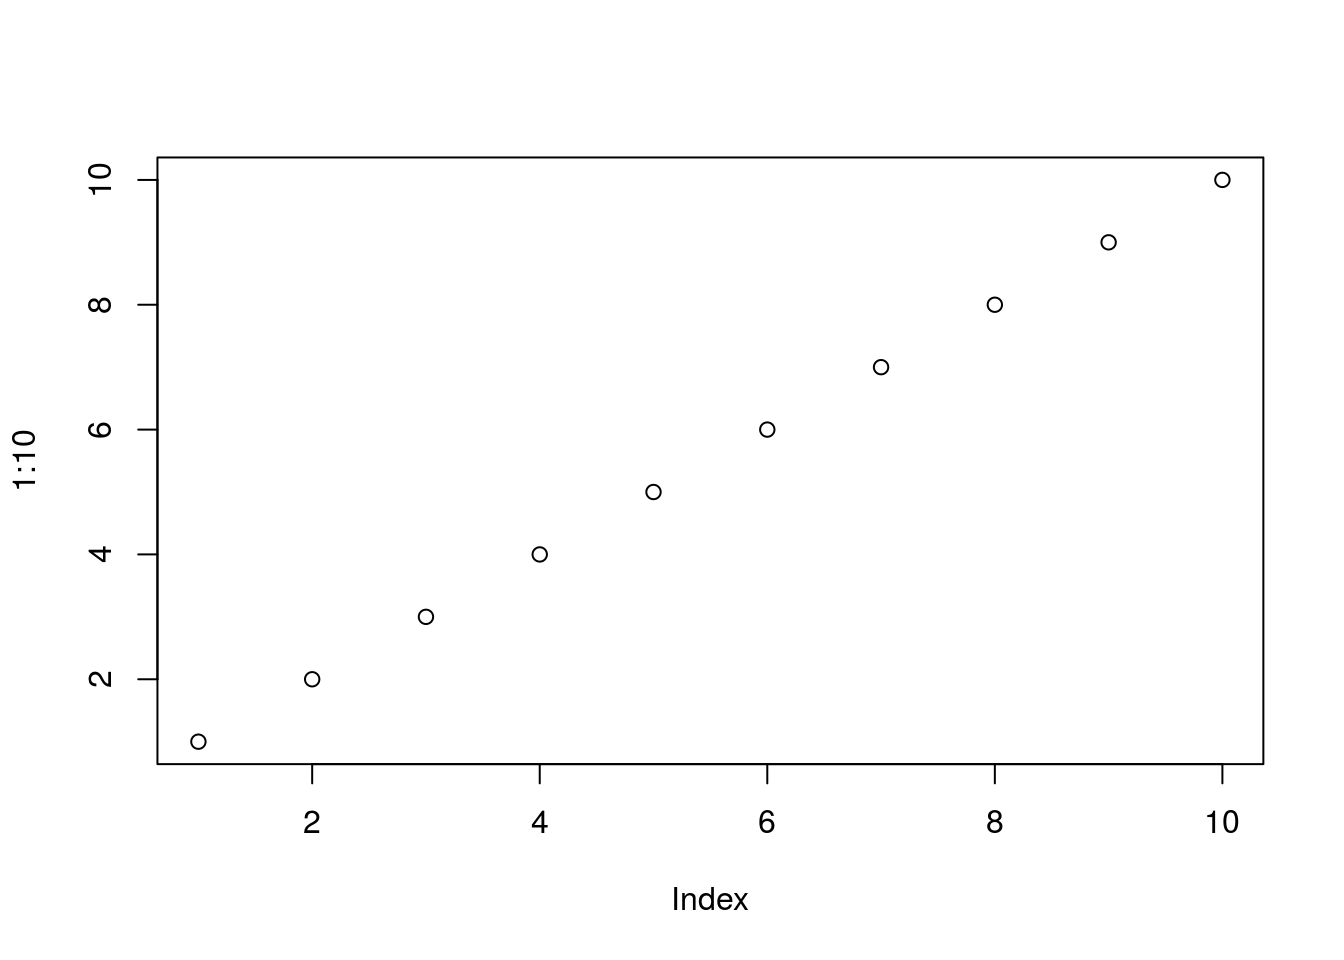
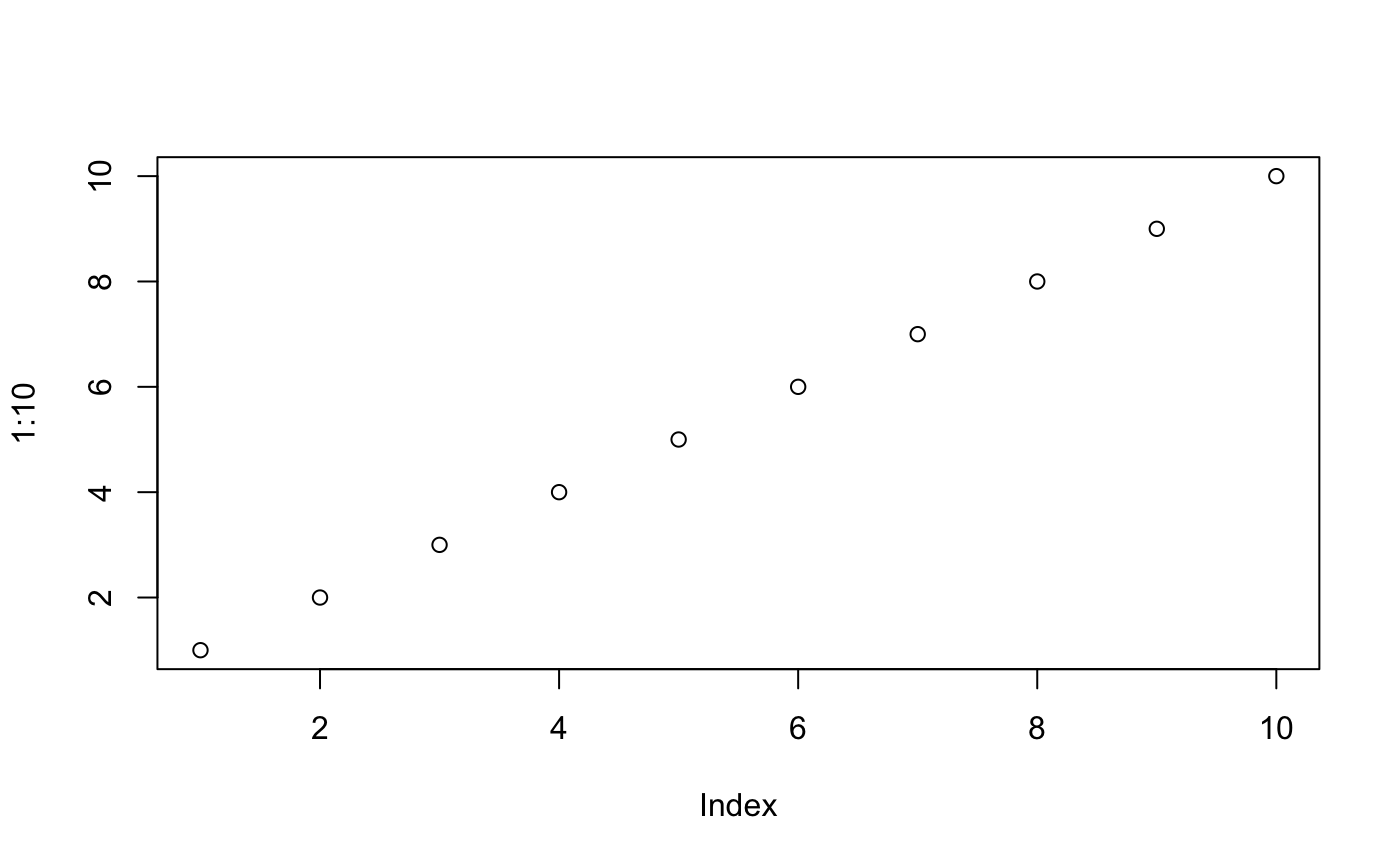
Update website

diff --git a/docs/index.html b/docs/index.html
@@ -19,7 +19,7 @@
 <![endif]-->
 </head>
 <body>
-    <div class="container template-home">
+    <div class="container template-article">
       <header><div class="navbar navbar-default navbar-fixed-top" role="navigation">
   <div class="container">
     <div class="navbar-header">
@@ -58,7 +58,14 @@
   </ul>
 </li>
       </ul>
-<ul class="nav navbar-nav navbar-right"></ul>
+<ul class="nav navbar-nav navbar-right">
+<li>
+  <a href="https://github.com/davidcarayon/ecotools">
+    <span class="fa fa-github fa-lg"></span>
+     
+  </a>
+</li>
+      </ul>
 </div>
 <!--/.nav-collapse -->
   </div>
@@ -68,20 +75,29 @@
 
       
       </header><div class="row">
-  <div class="contents col-md-9">
-    <div id="package-utilitaire-ecotools" class="section level1">
+  <div class="col-md-9 contents">
+    
+
+    
+    
+<div id="package-utilitaire-ecotools" class="section level1">
 <div class="page-header"><h1 class="hasAnchor">
-<a href="#package-utilitaire-ecotools" class="anchor"></a>Package utilitaire ecotools</h1></div>
-<p>Développé par l’équipe ECOVEA, EABX.</p>
-<p>Site associé : <a href="https://davidcarayon.github.io/ecotools/index.html" class="uri">https://davidcarayon.github.io/ecotools/index.html</a></p>
+<a href="#package-utilitaire-ecotools" class="anchor"></a>Package utilitaire ecotools <img src="reference/figures/serveimage.png" align="right" height="120" width="139">
+</h1></div>
+
+<p>Package utilitaire développé et utilisé en interne par l’équipe Ecovea (IRSTEA/EABX)</p>
+<p><pr des principales fonctions></pr></p>
+<p>Pour en savoir plus : <a href="https://davidcarayon.github.io/ecotools/index.html" class="uri">https://davidcarayon.github.io/ecotools/index.html</a></p>
 </div>
   </div>
 
-  <div class="col-md-3" id="sidebar">
+  <div class="col-md-3 hidden-xs hidden-sm" id="sidebar">
     <div class="links">
 <h2>Links</h2>
 <ul class="list-unstyled">
-<li>Report a bug at <br><a href="NA">NA</a>
+<li>Browse source code at <br><a href="https://github.com/davidcarayon/ecotools">https://github.com/davidcarayon/ecotools</a>
+</li>
+<li>Report a bug at <br><a href="https://github.com/davidcarayon/ecotools/issues">https://github.com/davidcarayon/ecotools/issues</a>
 </li>
 </ul>
 </div>
@@ -101,7 +117,18 @@
 </ul>
 </div>
 
-  </div>
+      <div class="dev-status">
+<h2>Dev status</h2>
+<ul class="list-unstyled">
+<li><a href="http://www.repostatus.org/#active"><img src="http://www.repostatus.org/badges/latest/active.svg" alt="Project Status: Active – The project has reached a stable, usable state and is being actively developed."></a></li>
+<li><a href="https://cran.r-project.org/"><img src="https://img.shields.io/badge/R%3E%3D-3.4.2-6666ff.svg" alt="minimal R version"></a></li>
+<li><a href="https://www.gnu.org/licenses/gpl-3.0.en.html"><img src="https://img.shields.io/badge/licence-GPL--3-blue.svg" alt="Licence"></a></li>
+<li><a href="https://cran.r-project.org/package=ecotools"><img src="http://www.r-pkg.org/badges/version/ecotools" alt="CRAN_Status_Badge"></a></li>
+<li><a href="commits/master"><img src="https://img.shields.io/badge/Package%20version-0.1-orange.svg?style=flat-square" alt="packageversion"></a></li>
+</ul>
+</div>
+</div>
+
 </div>
 
 

diff --git a/docs/articles/vign_ecotools.html b/docs/articles/vign_ecotools.html
@@ -18,7 +18,7 @@
 <![endif]-->
 </head>
 <body>
-    <div class="container template-vignette">
+    <div class="container template-article">
       <header><div class="navbar navbar-default navbar-fixed-top" role="navigation">
   <div class="container">
     <div class="navbar-header">
@@ -57,7 +57,14 @@
   </ul>
 </li>
       </ul>
-<ul class="nav navbar-nav navbar-right"></ul>
+<ul class="nav navbar-nav navbar-right">
+<li>
+  <a href="https://github.com/davidcarayon/ecotools">
+    <span class="fa fa-github fa-lg"></span>
+     
+  </a>
+</li>
+      </ul>
 </div>
 <!--/.nav-collapse -->
   </div>
@@ -67,20 +74,20 @@
 
       
       </header><div class="row">
-  <div class="col-md-9">
+  <div class="col-md-9 contents">
     <div class="page-header toc-ignore">
       <h1>ecotools</h1>
                         <h4 class="author">David Carayon, Sebastien Boutry, Thibault Leboucher, Marie Wach</h4>
             
-            <h4 class="date">2018-03-28</h4>
+            <h4 class="date">2018-04-07</h4>
       
-      
+      <small>Source: <a href="https://github.com/davidcarayon/ecotools/blob/master/vignettes/vign_ecotools.Rmd"><code>vignettes/vign_ecotools.Rmd</code></a></small>
+      <div class="hidden name"><code>vign_ecotools.Rmd</code></div>
 
     </div>
 
     
     
-<div class="contents">
 <p>Vignettes are long form documentation commonly included in packages. Because they are part of the distribution of the package, they need to be as compact as possible. The <code>html_vignette</code> output type provides a custom style sheet (and tweaks some options) to ensure that the resulting html is as small as possible. The <code>html_vignette</code> format:</p>
 <ul>
 <li>Never uses retina figures</li>
@@ -106,7 +113,7 @@
 <p>The figure sizes have been customised so that you can easily put two images side-by-side.</p>
 <div class="sourceCode"><pre class="sourceCode r"><code class="sourceCode r"><span class="kw">plot</span>(<span class="dv">1</span><span class="op">:</span><span class="dv">10</span>)
 <span class="kw">plot</span>(<span class="dv">10</span><span class="op">:</span><span class="dv">1</span>)</code></pre></div>
-<p><img src="vign_ecotools_files/figure-html/unnamed-chunk-1-1.png" width="672"><img src="vign_ecotools_files/figure-html/unnamed-chunk-1-2.png" width="672"></p>
+<p><img src="vign_ecotools_files/figure-html/unnamed-chunk-1-1.png" width="700"><img src="vign_ecotools_files/figure-html/unnamed-chunk-1-2.png" width="700"></p>
 <p>You can enable figure captions by <code>fig_caption: yes</code> in YAML:</p>
 <pre><code>output:
   rmarkdown::html_vignette:
@@ -285,7 +292,6 @@
 <ol>
 <li id="fn1"><p>A footnote here.<a href="#fnref1">↩</a></p></li>
 </ol>
-</div>
 </div>
   </div>
 

diff --git a/docs/reference/index.html b/docs/reference/index.html
@@ -84,7 +84,12 @@
       </ul>
       
       <ul class="nav navbar-nav navbar-right">
-        
+        <li>
+  <a href="https://github.com/davidcarayon/ecotools">
+    <span class="fa fa-github fa-lg"></span>
+     
+  </a>
+</li>
       </ul>
       
     </div><!--/.nav-collapse -->
@@ -94,43 +99,41 @@
       
       </header>
 
-      <div class="row">
-  <div class="col-md-9">
+<div class="row">
+  <div class="contents col-md-9">
     <div class="page-header">
       <h1>Reference</h1>
     </div>
 
-    <div class="contents">
-      <table class="ref-index">
+    <table class="ref-index">
 
-      <colgroup>
-        <col class="alias" />
-        <col class="title" />
-      </colgroup>
+    <colgroup>
+      <col class="alias" />
+      <col class="title" />
+    </colgroup>
 
-      <tbody>
-        <tr>
-          <th colspan="2">
-            <h2 id="section-all-functions" class="hasAnchor"><a href="#section-all-functions" class="anchor"></a>All functions</h2>
-            <p class="section-desc"></p>
-          </th>
-        </tr>
-        <tr>
-          <!--  -->
-          <td>
-            <p><code><a href="distri_data.html">distri_data()</a></code> </p>
-          </td>
-          <td><p>Additions</p></td>
-        </tr><tr>
-          <!--  -->
-          <td>
-            <p><code><a href="import_data.html">import_data()</a></code> </p>
-          </td>
-          <td><p>Additions</p></td>
-        </tr>
-      </tbody>
-      </table>
-    </div>
+    <tbody>
+      <tr>
+        <th colspan="2">
+          <h2 id="section-all-functions" class="hasAnchor"><a href="#section-all-functions" class="anchor"></a>All functions</h2>
+          <p class="section-desc"></p>
+        </th>
+      </tr>
+      <tr>
+        <!--  -->
+        <td>
+          <p><code><a href="distri_data.html">distri_data()</a></code> </p>
+        </td>
+        <td><p>Additions</p></td>
+      </tr><tr>
+        <!--  -->
+        <td>
+          <p><code><a href="import_data.html">import_data()</a></code> </p>
+        </td>
+        <td><p>Additions</p></td>
+      </tr>
+    </tbody>
+    </table>
   </div>
 
   <div class="col-md-3 hidden-xs hidden-sm" id="sidebar">

diff --git a/docs/articles/index.html b/docs/articles/index.html
@@ -42,7 +42,7 @@
   </head>
 
   <body>
-    <div class="container template-vignette-index">
+    <div class="container template-article-index">
       <header>
       <div class="navbar navbar-default navbar-fixed-top" role="navigation">
   <div class="container">
@@ -84,7 +84,12 @@
       </ul>
       
       <ul class="nav navbar-nav navbar-right">
-        
+        <li>
+  <a href="https://github.com/davidcarayon/ecotools">
+    <span class="fa fa-github fa-lg"></span>
+     
+  </a>
+</li>
       </ul>
       
     </div><!--/.nav-collapse -->
@@ -94,12 +99,12 @@
       
       </header>
 
-      <div class="page-header">
-  <h1>Articles <small>version&nbsp;0.1</small></h1>
-</div>
-
 <div class="row">
-  <div class="col-md-9">
+  <div class="col-md-9 contents">
+    <div class="page-header">
+      <h1>Articles</h1>
+    </div>
+
     <div class="section ">
       <h3>All vignettes</h3>
       <p class="section-desc"></p>

diff --git a/docs/reference/import_data.html b/docs/reference/import_data.html
@@ -87,7 +87,12 @@
       </ul>
       
       <ul class="nav navbar-nav navbar-right">
-        
+        <li>
+  <a href="https://github.com/davidcarayon/ecotools">
+    <span class="fa fa-github fa-lg"></span>
+     
+  </a>
+</li>
       </ul>
       
     </div><!--/.nav-collapse -->
@@ -97,11 +102,12 @@
       
       </header>
 
-      <div class="row">
+<div class="row">
   <div class="col-md-9 contents">
     <div class="page-header">
     <h1>Additions</h1>
-    
+    <small>Source: <a href='https://github.com/davidcarayon/ecotools/blob/master/R/gestion_repertoire.R'><code>R/gestion_repertoire.R</code></a></small>
+    <div class="hidden name"><code>import_data.Rd</code></div>
     </div>
 
     

diff --git a/docs/reference/distri_data.html b/docs/reference/distri_data.html
@@ -87,7 +87,12 @@
       </ul>
       
       <ul class="nav navbar-nav navbar-right">
-        
+        <li>
+  <a href="https://github.com/davidcarayon/ecotools">
+    <span class="fa fa-github fa-lg"></span>
+     
+  </a>
+</li>
       </ul>
       
     </div><!--/.nav-collapse -->
@@ -97,11 +102,12 @@
       
       </header>
 
-      <div class="row">
+<div class="row">
   <div class="col-md-9 contents">
     <div class="page-header">
     <h1>Additions</h1>
-    
+    <small>Source: <a href='https://github.com/davidcarayon/ecotools/blob/master/R/cleaning_data.R'><code>R/cleaning_data.R</code></a></small>
+    <div class="hidden name"><code>distri_data.Rd</code></div>
     </div>
 
     

diff --git a/docs/authors.html b/docs/authors.html
@@ -84,7 +84,12 @@
       </ul>
       
       <ul class="nav navbar-nav navbar-right">
-        
+        <li>
+  <a href="https://github.com/davidcarayon/ecotools">
+    <span class="fa fa-github fa-lg"></span>
+     
+  </a>
+</li>
       </ul>
       
     </div><!--/.nav-collapse -->
@@ -94,8 +99,8 @@
       
       </header>
 
-      <div class="row">
-  <div class="contents col-md-12">
+<div class="row">
+  <div class="contents col-md-9">
     <div class="page-header">
       <h1>Authors</h1>
     </div>

diff --git a/docs/LICENSE-text.html b/docs/LICENSE-text.html
@@ -84,7 +84,12 @@
       </ul>
       
       <ul class="nav navbar-nav navbar-right">
-        
+        <li>
+  <a href="https://github.com/davidcarayon/ecotools">
+    <span class="fa fa-github fa-lg"></span>
+     
+  </a>
+</li>
       </ul>
       
     </div><!--/.nav-collapse -->
@@ -94,7 +99,7 @@
       
       </header>
 
-      <div class="row">
+<div class="row">
   <div class="contents col-md-9">
     <div class="page-header">
       <h1>License</h1>

diff --git a/docs/pkgdown.css b/docs/pkgdown.css
@@ -217,3 +217,10 @@ a.sourceLine:hover {
 .hasCopyButton:hover button.btn-copy-ex {
   visibility: visible;
 }
+
+/* Docsearch -------------------------------------------------------------- */
+
+div.ds-dataset-1 {
+    overflow: auto;
+    max-height: 80vh;
+}
